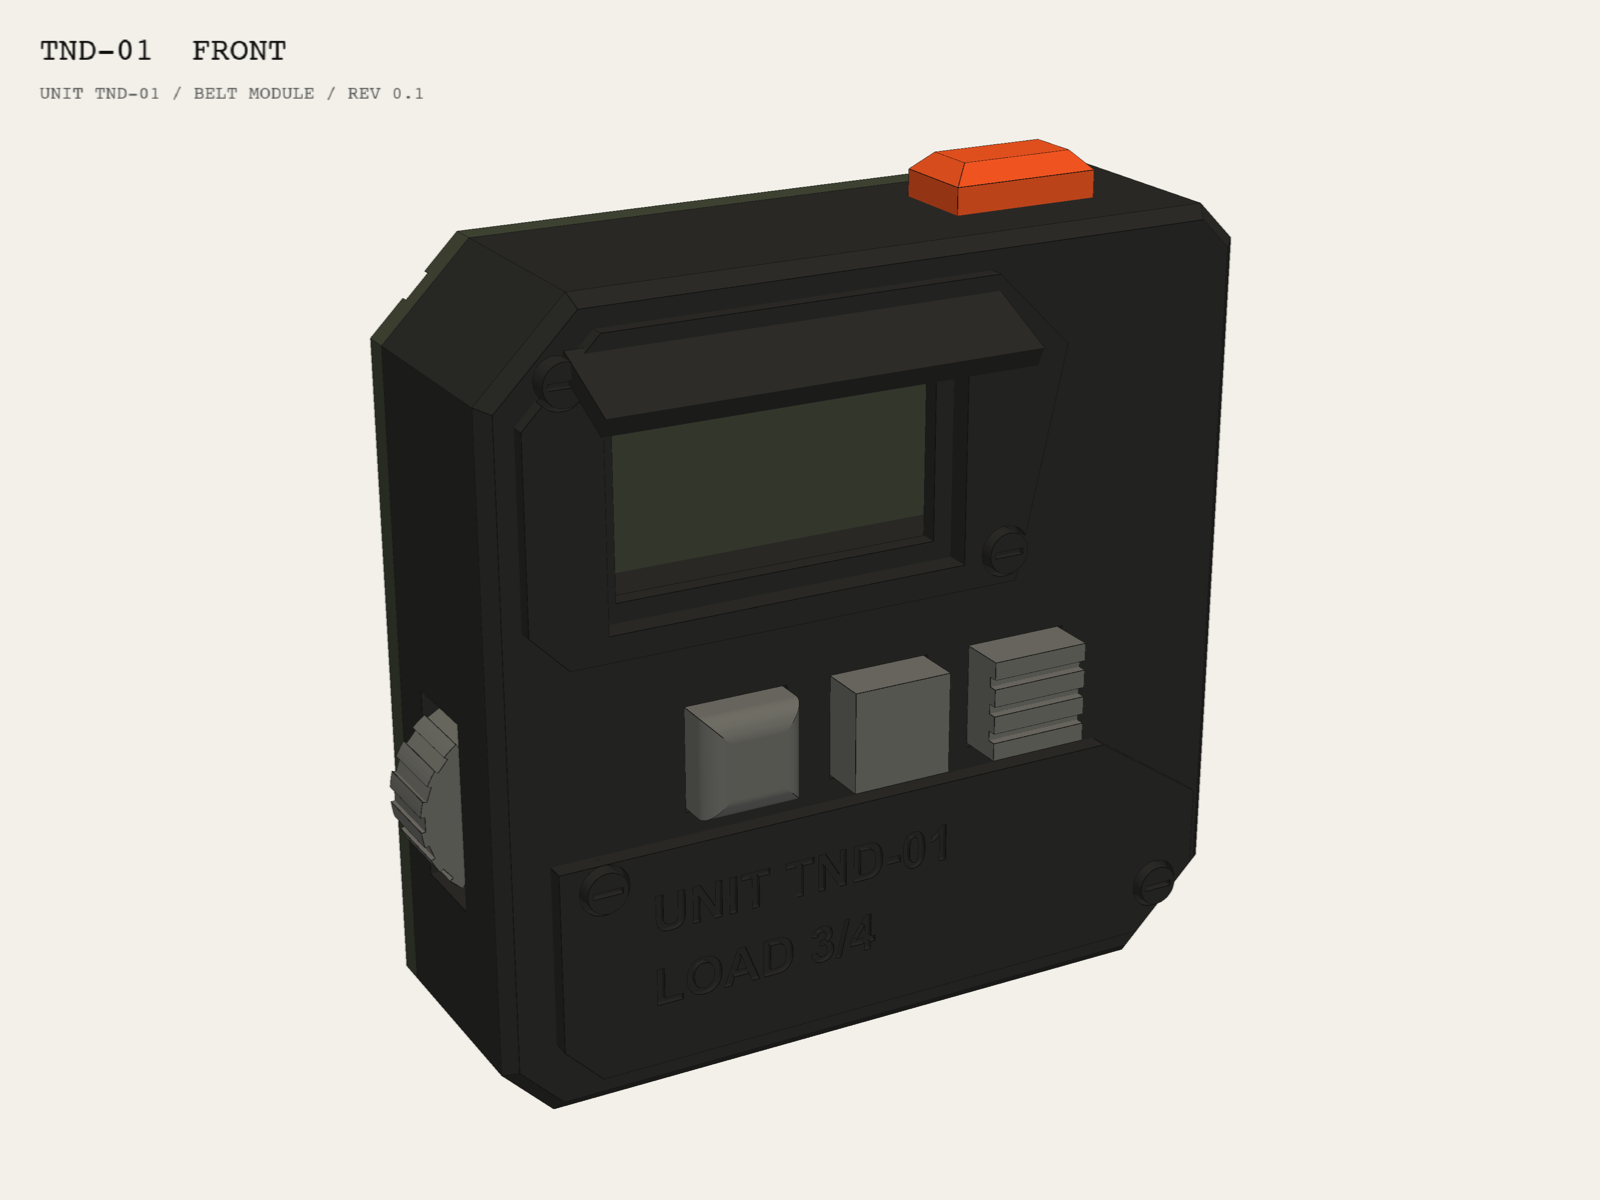
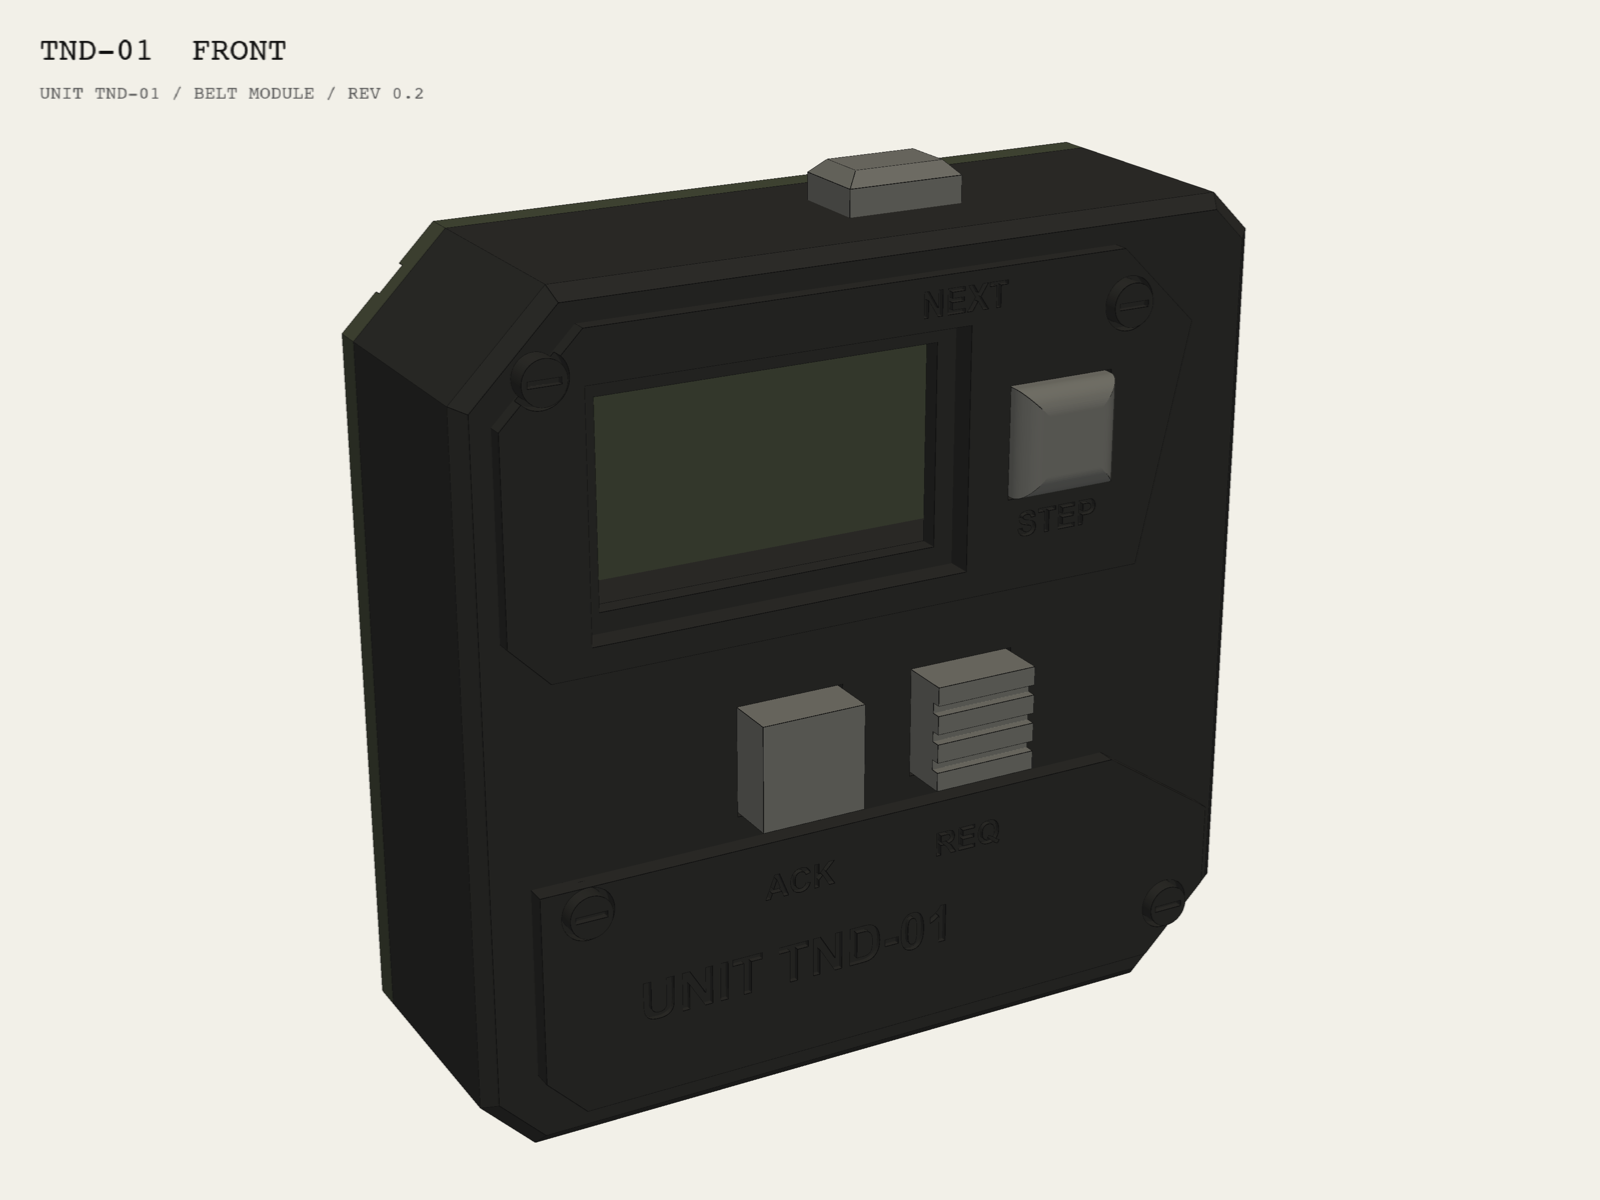
Enclosure rev 0.2: one key for each firmware key
Apply the design review of enclosure rev 0.1 (tender-vault
10-concept/design-review-rev-0-1.md):

- R1: key_step over StickS3 key A, new key_next pusher on the top face
  over key B, key_ack and key_request over the Dual Button unit.
- R2: engrave STEP, NEXT, ACK, REQ next to the keys.
- R3: no visor; it hid the top screen line from a server looking down.
- R4: no LOAD 3/4 marking.
- R5: wheel and talk button off until electronics stand behind them;
  no orange part on the shell.

build.py now also checks that keys do not press into the board.

diff --git a/enclosure/tnd01_belt.py b/enclosure/tnd01_belt.py
@@ -1,18 +1,21 @@
-"""TND-01 belt module enclosure, concept B with the talk button of concept A.
+"""TND-01 belt module enclosure rev 0.2, concept B.
 
 Ink Industrial design language: asymmetric faceted shell, overlapping armour
-plates with exposed screws, a visor over the screen, stencil-style markings,
-one accent part (the talk button).
+plates with exposed screws, stencil-style markings. Orange stays on the
+screen for alerts only, so no part of the shell is orange.
+
+Rev 0.2 follows the design review of rev 0.1 (tender-vault
+10-concept/design-review-rev-0-1.md): one part for each firmware key, each
+with its function engraved next to it; no visor; no fixed battery marking;
+the wheel and the talk button are off until electronics stand behind them.
 
 Parts:
-  front_shell  - main body with payload pocket, lower bay, plates and visor
+  front_shell  - main body with payload pocket, lower bay and plates
   back_cover   - screwed lid with the webbing belt loop
-  key_step / key_ack / key_request - key caps (convex, flat, ribbed)
-  wheel        - thumb wheel cap on the left side
-  talk_button  - accent talk button on the top face
-
-Stage 0 keys, wheel and talk button are form placeholders: the electronics
-behind them (a snap-in Grove module in the lower bay) are not chosen yet.
+  key_step     - convex cap over StickS3 key A, right of the screen
+  key_next     - pusher on the top face over StickS3 key B
+  key_ack / key_request - flat and ribbed caps over the Dual Button unit
+  wheel, talk_button    - only when enabled in params.Controls
 """
 from build123d import (
     Align,
@@ -51,10 +54,28 @@ def _screw_points(p: Tnd01Params):
     return [(-dx, dy), (dx, dy), (dx, -dy), (-dx, -dy)]
 
 
-def _key_xs(p: Tnd01Params):
+def _dual_xs(p: Tnd01Params):
     c = p.controls
-    step = c.key + c.key_gap
-    return [-step, 0.0, step]
+    return [c.dual_x - c.dual_pitch / 2, c.dual_x + c.dual_pitch / 2]
+
+
+def _board_x(p: Tnd01Params, offset: float) -> float:
+    """X of a point on the board, given its distance from the left end."""
+    return -p.pocket[0] / 2 + p.payload.clearance + offset
+
+
+def key_a_pos(p: Tnd01Params):
+    return _board_x(p, p.payload.key_a_offset), p.pocket_center_y
+
+
+def key_b_pos(p: Tnd01Params):
+    """X and Z of key B on the top side of the board."""
+    return _board_x(p, p.payload.key_b_offset), p.shell.back_t + 0.2 + p.payload.key_b_z
+
+
+def _engrave(body, text, x, y, top, size, depth, align=Align.CENTER):
+    label = Text(text, font_size=size, font_style=FontStyle.BOLD, align=(align, Align.CENTER))
+    return body - Pos(x, y, top - depth) * extrude(label, depth + 0.1)
 
 
 def key_row_y(p: Tnd01Params):
@@ -91,8 +112,9 @@ def front_shell(p: Tnd01Params) -> Part:
     usb_z = s.back_t + pd / 2
     body -= Pos(pw / 2 + s.width / 4, cy, usb_z) * Box(s.width / 2, pay.usb_w, pay.usb_h)
 
-    # Upper armour plate: frames the screen window, left side.
-    up_l, up_r = -s.width / 2 + 2.5, win_x + pay.screen_len / 2 + 6
+    # Upper armour plate: frames the screen window and key A.
+    ax, ay = key_a_pos(p)
+    up_l, up_r = -s.width / 2 + 2.5, max(win_x + pay.screen_len / 2 + 6, ax + c.key / 2 + 3)
     up_b, up_t = cy - pay.screen_h / 2 - 3.5, s.height / 2 - 2.5
     upper = Polygon(
         (up_l + 3, up_b), (up_r, up_b), (up_r + 4, up_t - 6), (up_r - 2, up_t),
@@ -115,15 +137,19 @@ def front_shell(p: Tnd01Params) -> Part:
     body += Pos(0, 0, d) * extrude(lower, pl.lower_thickness)
     lower_top = d + pl.lower_thickness
 
-    # Engraved stencil-style markings on the lower plate.
-    for text, y in (("UNIT TND-01", lo_t - 5.0), ("LOAD 3/4", lo_t - 11.0)):
-        label = Text(text, font_size=pl.label_size, font_style=FontStyle.BOLD,
-                     align=(Align.MIN, Align.CENTER))
-        cut = Pos(lo_l + 7.5, y, lower_top - pl.engrave_depth) * extrude(label, pl.engrave_depth + 0.1)
-        body -= cut
+    # Engraved markings. The unit name only: a fixed battery value would be
+    # false (design review R4). Key functions next to their keys (R2).
+    upper_top = d + pl.thickness
+    body = _engrave(body, "UNIT TND-01", lo_l + 7.5, lo_t - 10.0, lower_top, pl.label_size,
+                    pl.engrave_depth, Align.MIN)
+    for text, kx in zip(("ACK", "REQ"), _dual_xs(p)):
+        body = _engrave(body, text, kx, lo_t - 3.5, lower_top, c.legend_size, pl.engrave_depth)
+    body = _engrave(body, "STEP", ax, ay - c.key / 2 - 2.2, upper_top, c.legend_size, pl.engrave_depth)
+    bx, bz = key_b_pos(p)
+    body = _engrave(body, "NEXT", bx, up_t - 1.9, upper_top, c.legend_size, pl.engrave_depth)
 
     # Exposed screw heads on the plates (dummy heads, M2 look).
-    heads = [(up_l + 3.0, up_t - 3.0), (up_r - 1.0, up_b + 2.5),
+    heads = [(up_l + 3.0, up_t - 3.0), (up_r - 1.5, up_t - 4.0),
              (lo_r - 3.5, lo_b + 4.0), (lo_l + 3.5, lo_t - 2.0)]
     for i, (hx, hy) in enumerate(heads):
         top = d + (pl.thickness if i < 2 else pl.lower_thickness)
@@ -131,22 +157,27 @@ def front_shell(p: Tnd01Params) -> Part:
         body += Pos(hx, hy, top - 0.2) * Cylinder(1.6, 1.6)
         body -= Pos(hx, hy, top + 0.4) * Box(2.4, 0.5, 0.6)
 
-    # Visor over the screen: a plate that leaves the frame forward and tilts down.
-    visor = Box(pl.visor_len, pl.visor_reach, pl.visor_t, align=(Align.CENTER, Align.MIN, Align.MIN))
-    visor = Location((win_x, up_t - 1.0, d + pl.thickness - 0.5), (90 + pl.visor_tilt_deg, 0, 0)) * visor
-    body += visor
+    if pl.visor:  # off since rev 0.2 (design review R3)
+        visor = Box(pl.visor_len, pl.visor_reach, pl.visor_t, align=(Align.CENTER, Align.MIN, Align.MIN))
+        visor = Location((win_x, up_t - 1.0, d + pl.thickness - 0.5), (90 + pl.visor_tilt_deg, 0, 0)) * visor
+        body += visor
 
-    # Key holes from the front plate into the lower bay.
-    for kx in _key_xs(p):
-        body -= Pos(kx, ky, d) * Box(c.key_travel_hole, c.key_travel_hole, 2 * (s.front_wall + pl.lower_thickness) + 1)
+    hole = c.key_travel_hole
+    # Key A: through the upper plate and the front wall onto the board.
+    body -= Pos(ax, ay, d) * Box(hole, hole, 2 * (s.front_wall + pl.thickness) + 1)
+    # ACK and REQUEST: through the front wall into the lower bay.
+    for kx in _dual_xs(p):
+        body -= Pos(kx, ky, d) * Box(hole, hole, 2 * (s.front_wall + pl.lower_thickness) + 1)
+    # Key B: through the top wall onto the side of the board.
+    top_y = s.height / 2 - s.top_wall / 2
+    body -= Pos(bx, top_y, bz) * Box(c.pusher_w - 1.6, s.top_wall + 1, c.pusher_d - 1.6)
 
-    # Thumb wheel slot on the left wall, into the lower bay.
-    wy = bay_center_y(p)
-    slot_l, slot_r = -s.width / 2 - 1, -s.bay_w / 2 + 1
-    body -= Pos((slot_l + slot_r) / 2, wy, s.back_t + pd / 2) * Box(slot_r - slot_l, c.wheel_d + 1, c.wheel_w + 1)
-
-    # Talk button hole in the top wall.
-    body -= Pos(c.talk_x, s.height / 2 - s.top_wall / 2, s.back_t + pd / 2) * Box(c.talk_w - 2, s.top_wall + 1, c.talk_d - 2)
+    if c.wheel:
+        wy = bay_center_y(p)
+        slot_l, slot_r = -s.width / 2 - 1, -s.bay_w / 2 + 1
+        body -= Pos((slot_l + slot_r) / 2, wy, s.back_t + pd / 2) * Box(slot_r - slot_l, c.wheel_d + 1, c.wheel_w + 1)
+    if c.talk:
+        body -= Pos(c.talk_x, top_y, s.back_t + pd / 2) * Box(c.talk_w - 2, s.top_wall + 1, c.talk_d - 2)
 
     # Pilot holes for the back cover screws.
     for sx, sy in _screw_points(p):
@@ -172,22 +203,44 @@ def back_cover(p: Tnd01Params) -> Part:
     return cover
 
 
+def _cap(c, length, top):
+    """Square cap that hangs down from its top face at z = 0."""
+    cap = Pos(0, 0, -length / 2) * Box(c.key, c.key, length)
+    if top == "convex":
+        cap = fillet(cap.faces().sort_by(Axis.Z)[-1].edges(), 1.8)
+    elif top == "ribbed":
+        for gy in (-2.2, 0.0, 2.2):
+            cap -= Pos(0, gy, -0.3) * Box(c.key + 1, 0.8, 0.8)
+    return cap
+
+
 def key_caps(p: Tnd01Params):
-    """STEP (convex), ACK (flat), REQUEST (ribbed), seated in the key holes."""
+    """STEP (convex, key A), ACK (flat), REQUEST (ribbed). Each shape can be
+    told apart by touch (P3)."""
     c, s, pl = p.controls, p.shell, p.plates
+    pd = p.pocket[2]
+    ax, ay = key_a_pos(p)
+    a_top = p.depth + pl.thickness + c.key_proud
+    a_len = a_top - (s.back_t + pd - 0.1)  # down to the front of the board
+    step = Pos(ax, ay, a_top) * _cap(c, a_len, "convex")
+
     ky = key_row_y(p)
-    top_z = p.depth + pl.lower_thickness + c.key_proud
-    stem = s.front_wall + pl.lower_thickness + 1.0
-    caps = []
-    for i, kx in enumerate(_key_xs(p)):
-        cap = Pos(0, 0, -(stem + c.key_proud) / 2) * Box(c.key, c.key, stem + c.key_proud)
-        if i == 0:
-            cap = fillet(cap.faces().sort_by(Axis.Z)[-1].edges(), 1.8)
-        elif i == 2:
-            for gy in (-2.2, 0.0, 2.2):
-                cap -= Pos(0, gy, -0.3) * Box(c.key + 1, 0.8, 0.8)
-        caps.append(Pos(kx, ky, top_z) * cap)
-    return caps
+    d_top = p.depth + pl.lower_thickness + c.key_proud
+    d_len = c.key_proud + pl.lower_thickness + s.front_wall + c.dual_reach
+    ack, request = (Pos(kx, ky, d_top) * _cap(c, d_len, top)
+                    for kx, top in zip(_dual_xs(p), ("flat", "ribbed")))
+    return step, ack, request
+
+
+def key_next(p: Tnd01Params) -> Part:
+    """Pusher on the top face over StickS3 key B: a chamfered bar."""
+    c, s = p.controls, p.shell
+    bx, bz = key_b_pos(p)
+    cap = Box(c.pusher_w, c.pusher_h, c.pusher_d, align=(Align.CENTER, Align.MIN, Align.CENTER))
+    cap = chamfer(cap.edges().group_by(Axis.Y)[-1], 1.0)
+    reach = s.top_wall + 0.1  # down to the side of the board
+    stem = Box(c.pusher_w - 2.4, reach, c.pusher_d - 2.4, align=(Align.CENTER, Align.MAX, Align.CENTER))
+    return Pos(bx, s.height / 2, bz) * (cap + stem)
 
 
 def wheel(p: Tnd01Params) -> Part:
@@ -212,12 +265,16 @@ def talk_button(p: Tnd01Params) -> Part:
 def build(p: Tnd01Params | None = None) -> dict:
     p = p or Tnd01Params()
     step, ack, request = key_caps(p)
-    return {
+    parts = {
         "front_shell": front_shell(p),
         "back_cover": back_cover(p),
         "key_step": step,
+        "key_next": key_next(p),
         "key_ack": ack,
         "key_request": request,
-        "wheel": wheel(p),
-        "talk_button": talk_button(p),
     }
+    if p.controls.wheel:
+        parts["wheel"] = wheel(p)
+    if p.controls.talk:
+        parts["talk_button"] = talk_button(p)
+    return parts

diff --git a/enclosure/params.py b/enclosure/params.py
@@ -23,6 +23,12 @@ class Payload:
     screen_offset: float = 3.0  # [?]
     screen_len: float = 26.0  # [?] window length along X
     screen_h: float = 15.0  # [?] window height along Y
+    # StickS3 keys. Key A is on the front face, right of the screen. Key B is
+    # on a long side and must face up (+Y); if it faces down on the real
+    # board, turn the board and use display rotation 3 in the firmware.
+    key_a_offset: float = 38.0  # [?] centre of key A from the left end of the board
+    key_b_offset: float = 30.0  # [?] centre of key B from the left end of the board
+    key_b_z: float = 7.5  # [?] centre of key B above the back face of the board
     # USB-C port, centred on the right end of the board.
     usb_w: float = 11.0  # [?] along Y
     usb_h: float = 5.5  # [?] along Z
@@ -39,8 +45,8 @@ class Shell:
     # Asymmetric corner cuts: top-left, top-right, bottom-right, bottom-left.
     corner_cuts: tuple = (7.0, 3.0, 7.0, 4.0)
     edge_chamfer: float = 1.0
-    # Lower bay: free space under the payload for a snap-in Grove module
-    # (encoder or key unit) in stage 0.
+    # Lower bay: free space under the payload for the M5Stack Dual Button unit
+    # (ACK and REQUEST keys, Grove port) in stage 0.
     bay_w: float = 44.0
     bay_h: float = 20.0
     rib: float = 2.0  # rib between the payload pocket and the lower bay
@@ -54,11 +60,25 @@ class Shell:
 
 @dataclass(frozen=True)
 class Controls:
+    """One part for each firmware key: STEP (key A), NEXT (key B),
+    ACK and REQUEST (Dual Button unit). Design review rev 0.1, R1."""
+
     key: float = 8.0  # square key cap
-    key_gap: float = 4.0
     key_travel_hole: float = 8.4
     key_proud: float = 2.0  # how far the cap stands above the front plate
-    key_row_from_pocket: float = 8.0  # key centre below the payload pocket
+    key_row_from_pocket: float = 8.0  # ACK / REQUEST row centre below the payload pocket
+    dual_pitch: float = 14.0  # [?] distance between the 2 Dual Button keys
+    dual_x: float = 0.0  # [?] centre of the Dual Button key pair
+    dual_reach: float = 6.0  # [?] cap stem length inside the bay, down to the Dual Button keys
+    pusher_w: float = 9.0  # NEXT pusher on the top face, over StickS3 key B
+    pusher_d: float = 6.0
+    pusher_h: float = 3.0
+    legend_size: float = 2.6  # engraved key function names
+    # Placeholders from rev 0.1, off until they have electronics behind them
+    # (design review R1, R5). The wheel waits for the desk test; the talk
+    # button waits for the voice unit (stage 1).
+    wheel: bool = False
+    talk: bool = False
     wheel_d: float = 14.0
     wheel_w: float = 6.0
     wheel_proud: float = 3.0  # how far the wheel sticks out of the left side
@@ -72,6 +92,9 @@ class Controls:
 class Plates:
     thickness: float = 1.2  # raised armour plates on the front
     lower_thickness: float = 1.5
+    # The visor hid the top screen line from a server who looks down at the
+    # belt (design review R3). Off; kept for comparison renders.
+    visor: bool = False
     visor_len: float = 34.0
     visor_reach: float = 7.0
     visor_t: float = 1.6

diff --git a/enclosure/render.py b/enclosure/render.py
@@ -24,10 +24,11 @@ PALETTE = {
     "front_shell": (0.17, 0.17, 0.16),
     "back_cover": (0.25, 0.27, 0.21),
     "key_step": (0.42, 0.42, 0.40),
+    "key_next": (0.42, 0.42, 0.40),
     "key_ack": (0.42, 0.42, 0.40),
     "key_request": (0.42, 0.42, 0.40),
     "wheel": (0.42, 0.42, 0.40),
-    "talk_button": (0.92, 0.33, 0.13),
+    "talk_button": (0.42, 0.42, 0.40),
 }
 PAPER = (0.95, 0.94, 0.91)
 INK = (0.06, 0.06, 0.06)
@@ -65,7 +66,7 @@ def render(parts, path, direction, explode=None, title=None, size=(1600, 1200)):
     pl.reset_camera_clipping_range()
     if title:
         pl.add_text(title, position=(40, size[1] - 70), font_size=16, color=INK, font="courier")
-        pl.add_text("UNIT TND-01 / BELT MODULE / REV 0.1", position=(40, size[1] - 105),
+        pl.add_text("UNIT TND-01 / BELT MODULE / REV 0.2", position=(40, size[1] - 105),
                     font_size=9, color=(0.35, 0.35, 0.35), font="courier")
     pl.screenshot(str(path))
     pl.close()
@@ -83,7 +84,7 @@ def main():
     render(parts, out / "tnd01_back.png", (0.6, 0.35, -1.0), title="TND-01  BACK")
     explode = {
         "back_cover": (0, 0, -24),
-        "key_step": (0, 0, 12), "key_ack": (0, 0, 12), "key_request": (0, 0, 12),
+        "key_step": (0, 0, 12), "key_ack": (0, 0, 12), "key_request": (0, 0, 12), "key_next": (0, 12, 0),
         "wheel": (-16, 0, 0), "talk_button": (0, 14, 0),
     }
     render(parts, out / "tnd01_exploded.png", (-0.8, 0.5, 0.75), explode=explode, title="TND-01  EXPLODED")

diff --git a/enclosure/build.py b/enclosure/build.py
@@ -21,10 +21,11 @@ COLORS = {
     "front_shell": Color(0.12, 0.12, 0.11),
     "back_cover": Color(0.20, 0.22, 0.17),
     "key_step": Color(0.30, 0.30, 0.28),
+    "key_next": Color(0.30, 0.30, 0.28),
     "key_ack": Color(0.30, 0.30, 0.28),
     "key_request": Color(0.30, 0.30, 0.28),
     "wheel": Color(0.30, 0.30, 0.28),
-    "talk_button": Color(0.92, 0.33, 0.13),
+    "talk_button": Color(0.30, 0.30, 0.28),  # graphite: orange is for screen alerts only
 }
 
 
@@ -45,11 +46,14 @@ def check(parts: dict, p: Tnd01Params) -> list[str]:
         overlap = (parts[name] & dummy).volume
         if overlap > 1e-3:
             problems.append(f"{name}: overlaps the payload by {overlap:.2f} mm3")
-    # Moving parts must not collide with the shell.
-    for name in ("key_step", "key_ack", "key_request", "wheel", "talk_button"):
+    # Moving parts must not collide with the shell or the board.
+    for name in [n for n in parts if n not in ("front_shell", "back_cover")]:
         overlap = (parts["front_shell"] & parts[name]).volume
         if overlap > 1e-3:
             problems.append(f"{name}: collides with front_shell by {overlap:.2f} mm3")
+        overlap = (dummy & parts[name]).volume
+        if overlap > 1e-3:
+            problems.append(f"{name}: presses into the board by {overlap:.2f} mm3")
     return problems
 
 

diff --git a/README.md b/README.md
@@ -4,28 +4,30 @@ Enclosure, wiring and bill of materials for **TENDER TND-01** — a self-contain
 
 Concept, functions and the Ink Industrial design language live in [tender-vault](https://github.com/milvalen/tender-vault).
 
-![TND-01 belt module, rev 0.1](renders/tnd01_front.png)
+![TND-01 belt module, rev 0.2](renders/tnd01_front.png)
 
 ## Status
 
-Rev 0.1 of the belt module enclosure (concept B with the talk button of concept A). Geometry builds and passes the fit checks below. Not printed yet.
+Rev 0.2 of the belt module enclosure (concept B). It applies the design review of rev 0.1 in tender-vault (`10-concept/design-review-rev-0-1.md`). Geometry builds and passes the fit checks below. Not printed yet.
 
 Stage 0 uses ready-made boards with snap-in connectors (Qwiic / STEMMA QT / Grove): no soldering. The enclosure is printed by an on-demand service (SLA resin preferred for sharp plate edges).
 
-## Enclosure rev 0.1
+## Enclosure rev 0.2
 
 | | |
 |---|---|
 | Payload | M5Stack StickS3, 48 × 24 × 15 mm (maker spec), lying landscape |
-| Shell | 62 × 62 × 20.6 mm; 65 × 65.5 × 33 mm with belt loop, visor and controls |
-| Parts | `front_shell`, `back_cover` (with webbing belt loop for 25 mm webbing), `key_step` (convex), `key_ack` (flat), `key_request` (ribbed), `wheel`, `talk_button` (accent) |
+| Shell | 62 × 62 × 20.6 mm; 62 × 65 × 29.6 mm with belt loop and controls |
+| Parts | `front_shell`, `back_cover` (with webbing belt loop for 25 mm webbing), `key_step` (convex, over StickS3 key A), `key_next` (pusher on the top face, over StickS3 key B), `key_ack` (flat) and `key_request` (ribbed) over the Dual Button unit |
+| Markings | `UNIT TND-01` and the key functions `STEP`, `NEXT`, `ACK`, `REQ`, engraved 0.4 mm. Fill the engraving with white paint after the print |
 | Fasteners | 4 × M2 self-tapping screws, back cover into front shell |
-| Lower bay | 44 × 20 × 15.4 mm free space for a snap-in Grove module (encoder or keys) |
+| Lower bay | 44 × 20 × 15.4 mm for the M5Stack Dual Button unit (Grove) |
 
 Limits:
 
-- Screen window, screen offset and USB-C opening positions are placeholders marked `[?]` in `enclosure/params.py`. Measure the real board and update them before printing.
-- Keys, wheel and talk button are form placeholders. The module behind them in the lower bay is not chosen yet.
+- Screen window, key A, key B, Dual Button key and USB-C positions are placeholders marked `[?]` in `enclosure/params.py`. Measure the real boards and update them before printing.
+- Key B of the StickS3 must face up, toward the top pusher. If it faces down, turn the board and set display rotation 3 in the firmware.
+- The thumb wheel and the talk button are off (`Controls.wheel`, `Controls.talk`) until electronics stand behind them. The visor is off (`Plates.visor`): it hid the top screen line from above.
 
 ![Exploded view](renders/tnd01_exploded.png)
 
@@ -40,7 +42,7 @@ uv pip install --python .venv/bin/python build123d pyvista
 .venv/bin/python enclosure/render.py    # previews to renders/
 ```
 
-`build.py` checks that every part is a valid solid, that the shell does not overlap the payload, and that keys, wheel and talk button do not collide with the shell. It exits with status 1 on a failure.
+`build.py` checks that every part is a valid solid, that the shell does not overlap the payload, and that keys do not collide with the shell or press into the board. It exits with status 1 on a failure.
 
 Change dimensions in `enclosure/params.py`, not in the model code.
 
